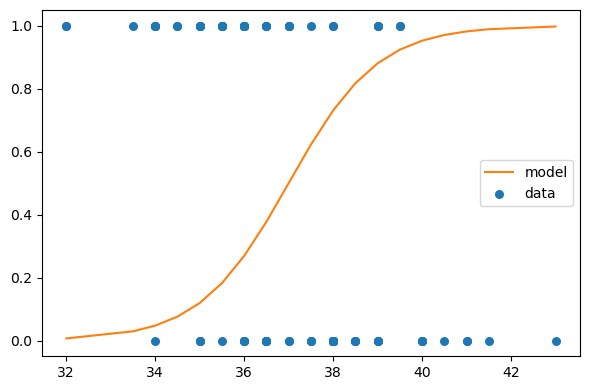
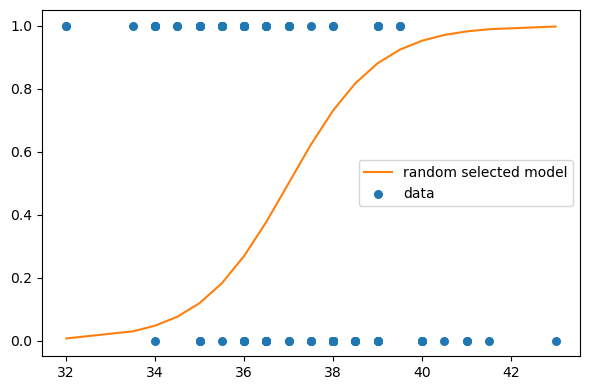
likelihood - model fitting

Changed region(s): [[0.6102, 0.4, 0.9763, 0.5231], [0.8237, 0.4923, 0.8542, 0.5231]]

diff --git a/docs/posts/Model Fitting with Likelihood/index.html b/docs/posts/Model Fitting with Likelihood/index.html
@@ -307,7 +307,7 @@ window.Quarto = {
 </div>
 </div>
 </div>
-<p>We’ll use possum data, where each row corresponds to features of a possum from Australia and New Guinea. Let’s attempt to predict which region a possum is from as a function of tail length.</p>
+<p>We’ll use possum data, where each row corresponds to features of a possum from Australia and New Guinea. Let’s attempt to predict which region a possum is from as a function of tail length. (You can get the data from <a href="https://www.openintro.org/data/index.php?data=possum">here</a>)</p>
 <p>I assume basic knowledge of logistic regression, which we’ll use to model the relationship between our predictor and the binary target variable.</p>
 <div id="cell-6" class="cell" data-execution_count="3">
 <div class="sourceCode cell-code" id="cb3"><pre class="sourceCode python code-with-copy"><code class="sourceCode python"><span id="cb3-1"><a href="#cb3-1" aria-hidden="true" tabindex="-1"></a>qs_cept <span class="op">=</span> np.linspace(<span class="op">-</span><span class="dv">3</span>, <span class="dv">3</span>, <span class="dv">241</span>) <span class="co"># possible values for intercept (beta_0)</span></span>
@@ -603,7 +603,7 @@ window.Quarto = {
 <div id="cell-24" class="cell" data-execution_count="15">
 <div class="sourceCode cell-code" id="cb19"><pre class="sourceCode python code-with-copy"><code class="sourceCode python"><span id="cb19-1"><a href="#cb19-1" aria-hidden="true" tabindex="-1"></a>plt.figure(figsize<span class="op">=</span>(<span class="dv">6</span>,<span class="dv">4</span>))</span>
 <span id="cb19-2"><a href="#cb19-2" aria-hidden="true" tabindex="-1"></a></span>
-<span id="cb19-3"><a href="#cb19-3" aria-hidden="true" tabindex="-1"></a>plt.plot(x_values<span class="op">+</span>offset, ps, label<span class="op">=</span><span class="st">'model'</span>, color<span class="op">=</span><span class="st">'C1'</span>)</span>
+<span id="cb19-3"><a href="#cb19-3" aria-hidden="true" tabindex="-1"></a>plt.plot(x_values<span class="op">+</span>offset, ps, label<span class="op">=</span><span class="st">'random selected model'</span>, color<span class="op">=</span><span class="st">'C1'</span>)</span>
 <span id="cb19-4"><a href="#cb19-4" aria-hidden="true" tabindex="-1"></a>plt.scatter(df[<span class="st">'x'</span>]<span class="op">+</span>offset, df[<span class="st">'y'</span>], s<span class="op">=</span><span class="dv">30</span>, label<span class="op">=</span><span class="st">'data'</span>)</span>
 <span id="cb19-5"><a href="#cb19-5" aria-hidden="true" tabindex="-1"></a></span>
 <span id="cb19-6"><a href="#cb19-6" aria-hidden="true" tabindex="-1"></a>ut.decorate()</span></code><button title="Copy to Clipboard" class="code-copy-button"><i class="bi"></i></button></pre></div>
@@ -615,7 +615,7 @@ window.Quarto = {
 </div>
 </div>
 </div>
-<p>This was for only one pair of intercept and slope, and it seems like we can do better. We calculated the likelihood for education purposes here but in general, likelihoods by themselves does not mean much (it’s relatively a ). Let’s try other possible pairs for our parameters and compare the likelihoods of each to take the one that maximizes the likelihood of the observed data.</p>
+<p>This was for only one pair of intercept and slope, and it seems like we can do better. We calculated the likelihood for educational purposes here but in general, likelihoods by themselves does not mean much (I try to choose my words carefully here). Let’s try other possible pairs for our parameters and compare the likelihoods of each to take the one that maximizes the likelihood of the observed data.</p>
 <div id="cell-26" class="cell" data-execution_count="16">
 <div class="sourceCode cell-code" id="cb20"><pre class="sourceCode python code-with-copy"><code class="sourceCode python"><span id="cb20-1"><a href="#cb20-1" aria-hidden="true" tabindex="-1"></a><span class="im">from</span> scipy.special <span class="im">import</span> expit</span>
 <span id="cb20-2"><a href="#cb20-2" aria-hidden="true" tabindex="-1"></a></span>

diff --git a/docs/index.html b/docs/index.html
@@ -231,7 +231,7 @@ window.Quarto = {
     </div>
 </div>
 <div class="list quarto-listing-default">
-<div class="quarto-post image-right" data-index="0" data-categories="U3RhdHM=" data-listing-date-sort="1737752400000" data-listing-file-modified-sort="1737747370301" data-listing-date-modified-sort="NaN" data-listing-reading-time-sort="4" data-listing-word-count-sort="704">
+<div class="quarto-post image-right" data-index="0" data-categories="U3RhdHM=" data-listing-date-sort="1737752400000" data-listing-file-modified-sort="1737754826113" data-listing-date-modified-sort="NaN" data-listing-reading-time-sort="4" data-listing-word-count-sort="714">
 <div class="thumbnail">
 <p><a href="./posts/Model Fitting with Likelihood/index.html" class="no-external"></a></p><a href="./posts/Model Fitting with Likelihood/index.html" class="no-external">
 <p class="card-img-top"><img src="posts\Model Fitting with Likelihood\index_files\figure-html\cell-16-output-1.png"  class="thumbnail-image card-img"/></p>
